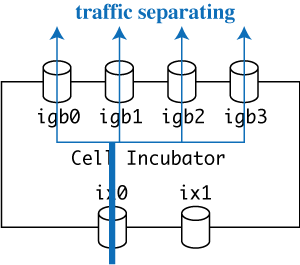
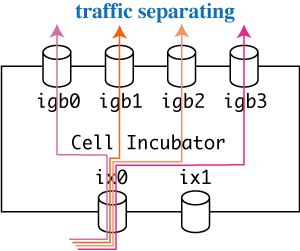
update pictures for QB

diff --git a/tutorial_qb_freebsd101.md b/tutorial_qb_freebsd101.md
@@ -52,7 +52,7 @@ Here, suppose that we have a following FreeBSD box.
 
 ![qb01 qb01](https://raw.githubusercontent.com/SF-TAP/documents/master/pict/qb01.png)
 
-### Flow Separating
+### Flow Based Separating
 
 ![qb02 qb02](https://raw.githubusercontent.com/SF-TAP/documents/master/pict/qb02.png)
 
@@ -62,8 +62,12 @@ Here, suppose that we have a following FreeBSD box.
 
 ### L2 Bridging
 
-![qb04 qb04](https://raw.githubusercontent.com/SF-TAP/documents/master/pict/qb03.png)
+![qb04 qb04](https://raw.githubusercontent.com/SF-TAP/documents/master/pict/qb04.png)
 
-### L2 Bridging + Flow Separating
+### L2 Bridging + Flow Based Separating
 
 ![qb05 qb05](https://raw.githubusercontent.com/SF-TAP/documents/master/pict/qb05.png)
+
+### L2 Bridging + Mirroring
+
+![qb06 qb06](https://raw.githubusercontent.com/SF-TAP/documents/master/pict/qb06.png)
